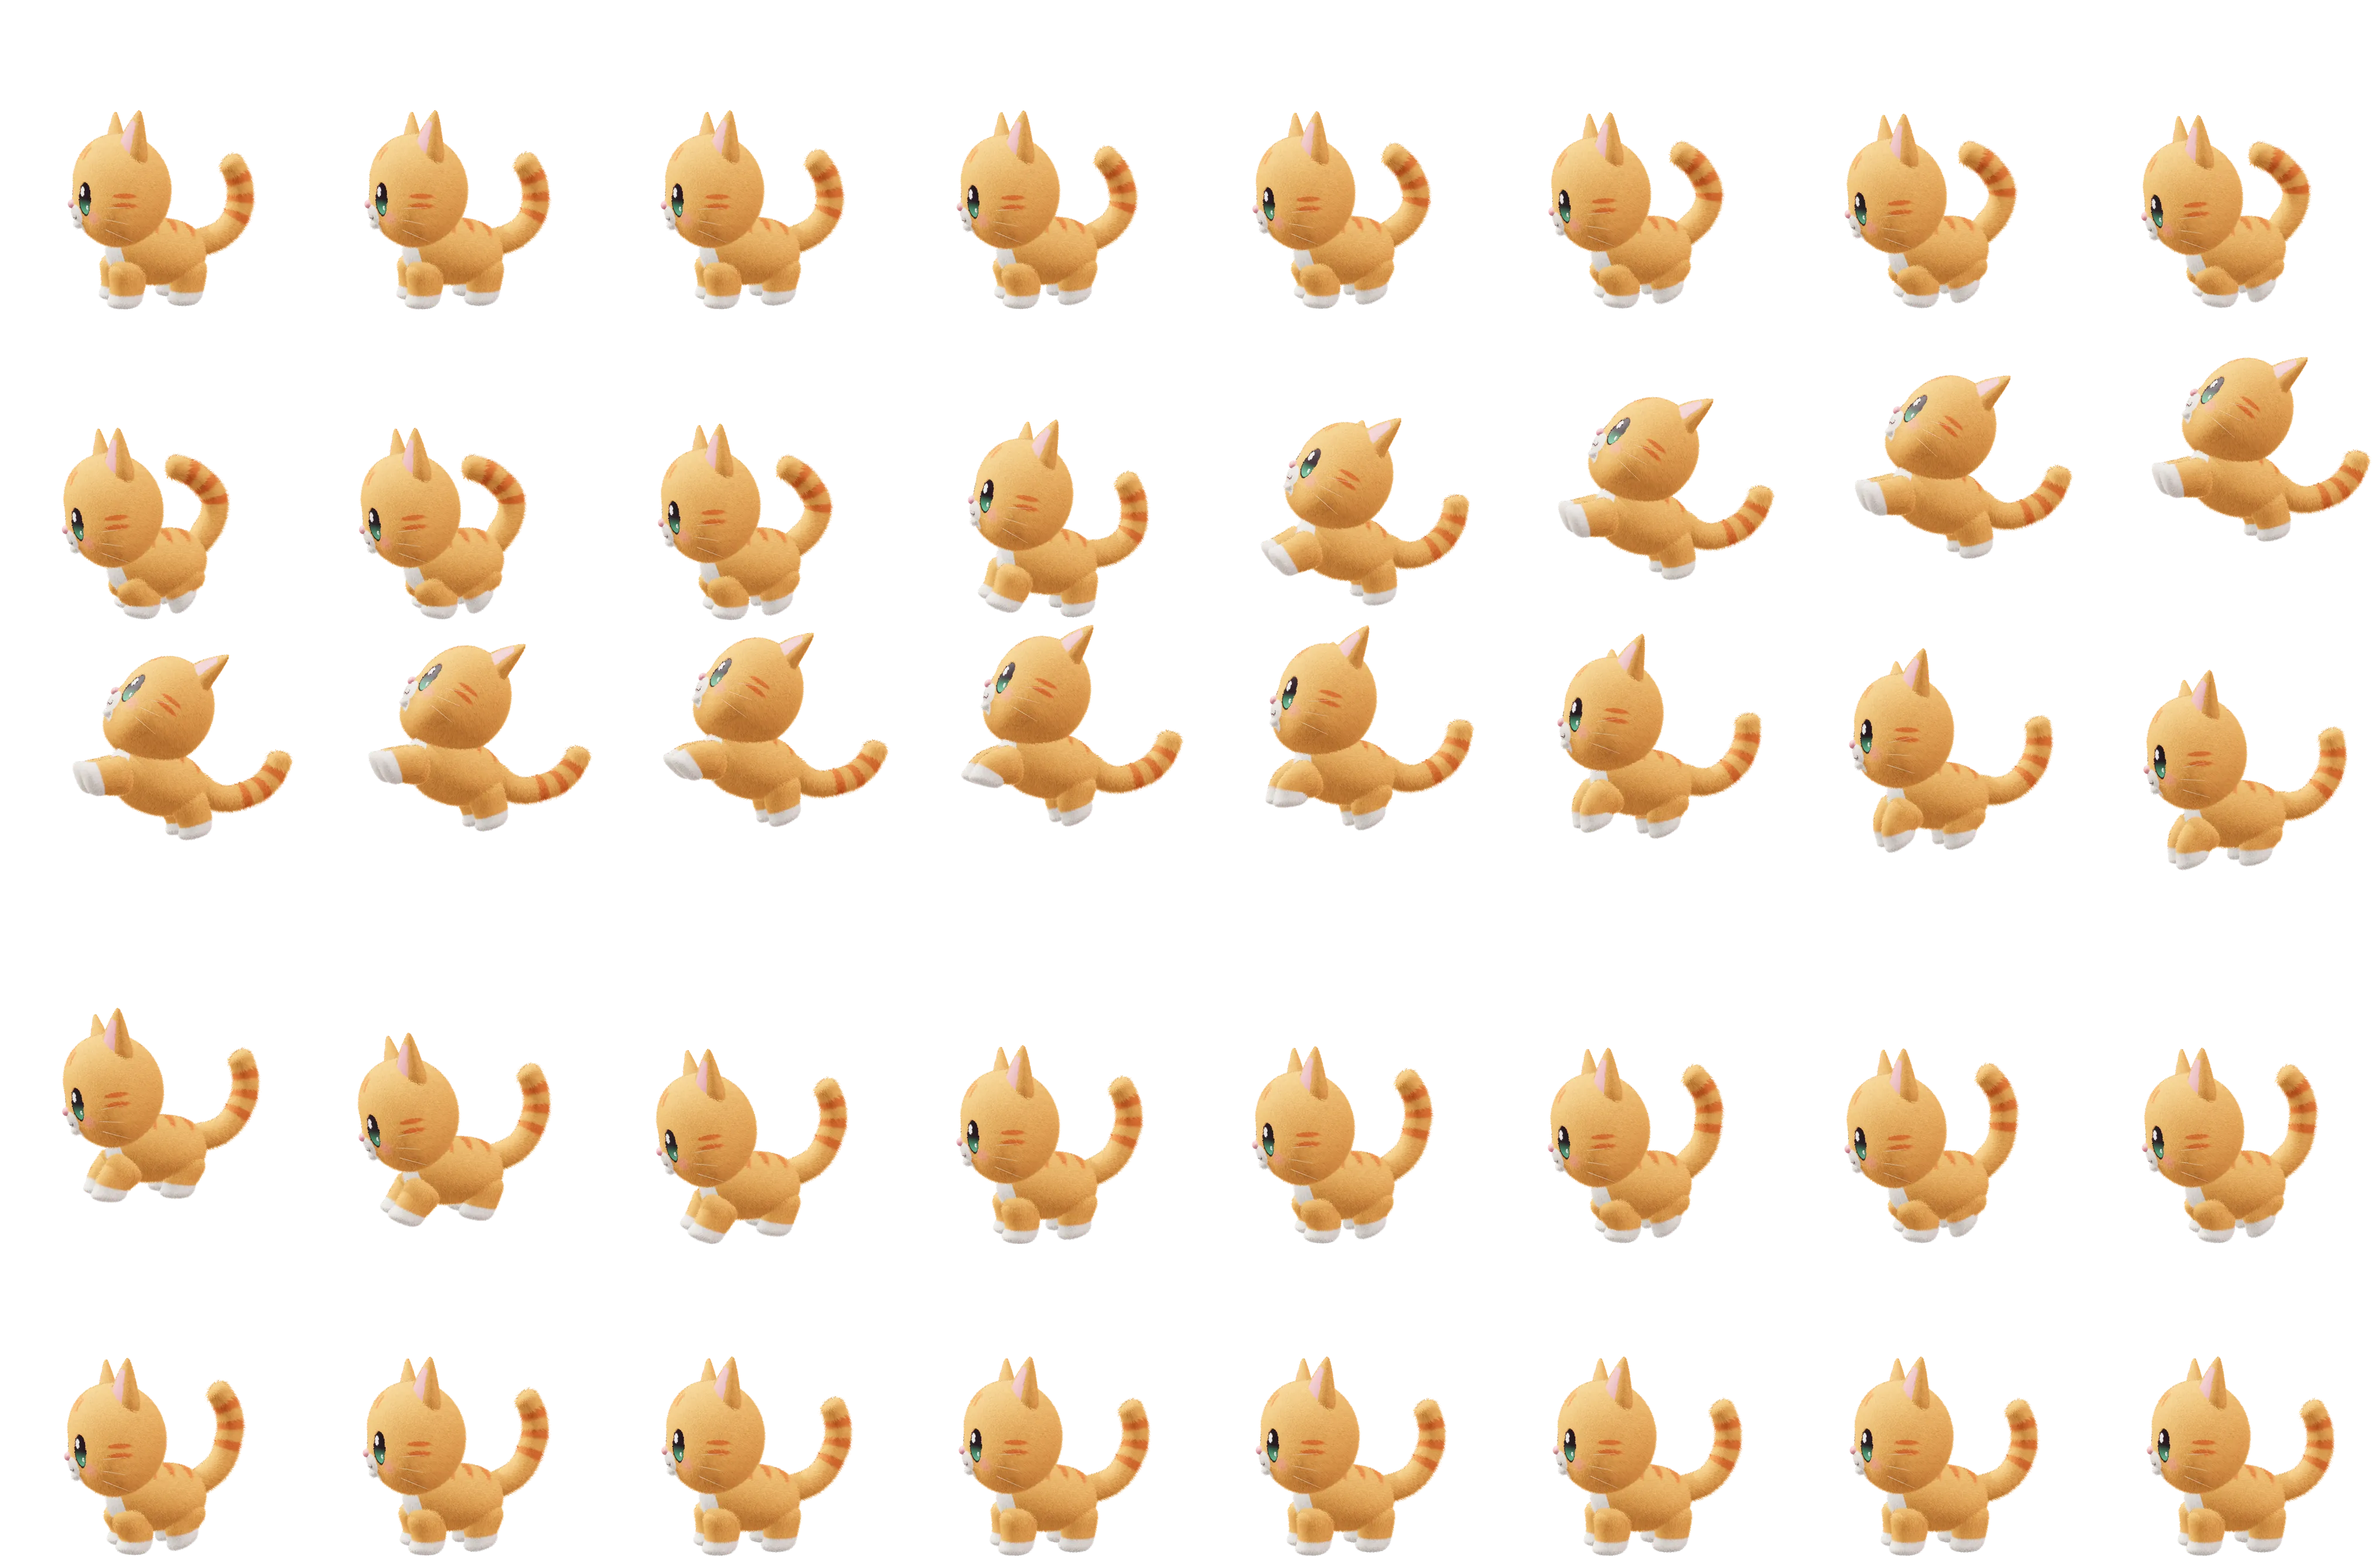
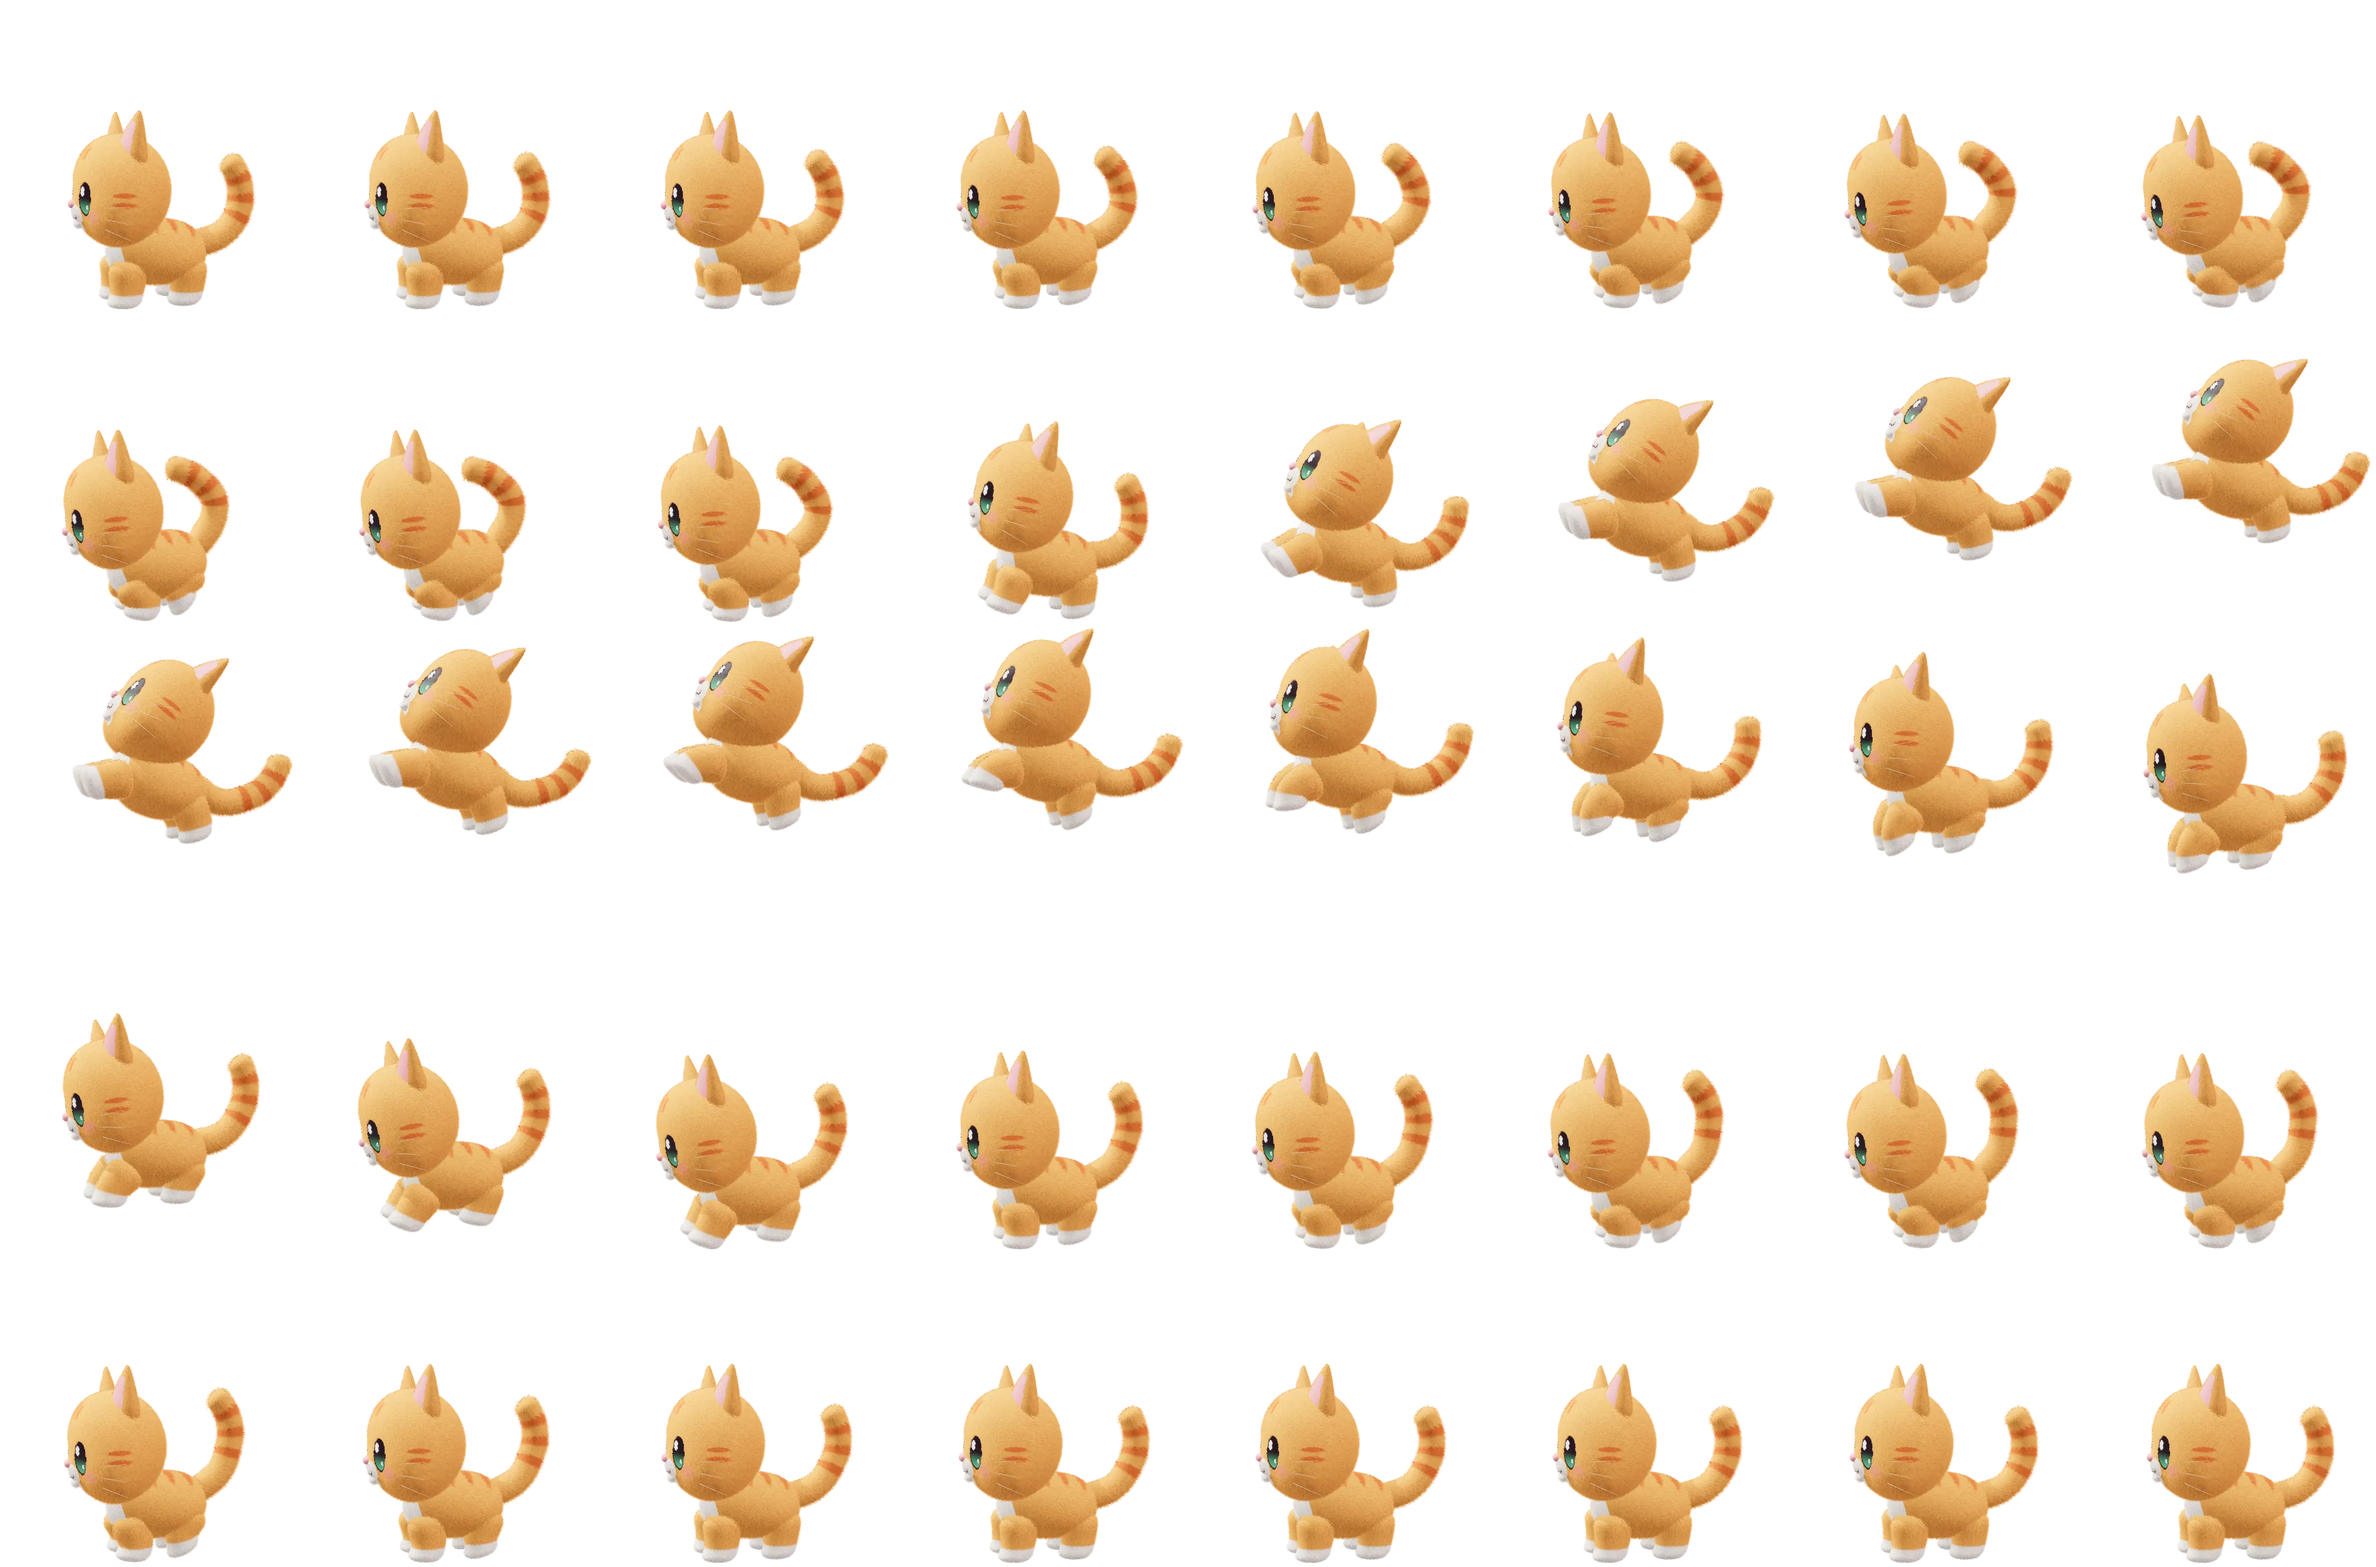
Kitten turns to face you when it stops, sits, meows or sleeps
Front-facing sheets currently reuse side frames until the new renders finish.

Claude-Session: https://claude.ai/code/session_012pkuXRzfxjjGfxKfGxjSNM

diff --git a/couples/src/lib/kittenSim.ts b/couples/src/lib/kittenSim.ts
@@ -16,18 +16,29 @@ export type KittenSnap = {
 
 type ClipTiming = Record<KittenClip, { frames: number; fps: number }>;
 
+
+/** Базовые действия; у сидячих есть вариант «лицом к экрану» (clip + 'F'). */
+type BaseClip = 'idle' | 'walk' | 'run' | 'jump' | 'sit' | 'sleep' | 'call' | 'turn';
+const FRONT: ReadonlySet<BaseClip> = new Set(['idle', 'sit', 'sleep', 'call']);
+/** Какой лист показывать: стоя, сидя, во сне и мяукая котик всегда смотрит на нас. */
+const shown = (c: BaseClip): KittenClip => (FRONT.has(c) ? (`${c}F` as KittenClip) : (c as KittenClip));
+
 type Act = {
-  clip: KittenClip;
+  clip: BaseClip;
   /** Сколько длится зацикленное действие, с */
   dur?: number;
   /** Один проход клипа и дальше по плану */
   once?: boolean;
   /** Цель по x для ходьбы и бега */
   target?: number;
+  /** Для поворота: разворот обратно боком (кадры в обратном порядке) */
+  back?: boolean;
+  /** Что делать после поворота */
+  then?: Act;
 };
 
 /** Скорость лап из анимации, м/с: с этой скоростью котик не «скользит» по полу. */
-const SPEED: Partial<Record<KittenClip, number>> = { walk: 0.159, run: 0.281 };
+const SPEED: Partial<Record<BaseClip, number>> = { walk: 0.159, run: 0.281 };
 /** Прыжок переносит котика вперёд на 0,3 м между кадрами отрыва и приземления. */
 const JUMP = { dist: 0.3, from: 10, to: 28 };
 /** Сколько касаний подряд нужно, чтобы котик подпрыгнул от радости. */
@@ -54,6 +65,8 @@ export class KittenSim {
   private ready = false;
   private mood: KittenMood = 'ok';
   private act: Act = { clip: 'idle', dur: 2 };
+  /** Котик смотрит на нас (front) или идёт боком (side) */
+  private facing: 'front' | 'side' = 'front';
   private t = 0;
   private taps: number[] = [];
 
@@ -78,24 +91,25 @@ export class KittenSim {
     if (mood === this.mood) return;
     const wasSleepy = this.mood === 'sleepy';
     this.mood = mood;
-    if (mood === 'sleepy') this.start({ clip: 'sleep', dur: Infinity });
-    else if (wasSleepy) this.start({ clip: 'idle', dur: 2 });
+    if (mood === 'sleepy') this.go({ clip: 'sleep', dur: Infinity });
+    else if (wasSleepy) this.go({ clip: 'idle', dur: 2 });
   }
 
   /** Касание. Возвращает, что сделал котик. */
   pat(nowMs: number): 'wake' | 'meow' | 'jump' {
     if (this.act.clip === 'sleep') {
       this.taps = [];
-      this.start({ clip: 'idle', dur: 2.5 });
+      this.go({ clip: 'idle', dur: 2.5 });
       return 'wake';
     }
     this.taps = [...this.taps.filter((t) => nowMs - t < 1500), nowMs];
-    if (this.taps.length >= TAPS_FOR_JUMP && this.act.clip !== 'jump' && this.roomFor(JUMP.dist)) {
+    const busy = (c: BaseClip) => this.act.clip === c || this.act.then?.clip === c;
+    if (this.taps.length >= TAPS_FOR_JUMP && !busy('jump') && this.roomFor(JUMP.dist)) {
       this.taps = [];
-      this.start({ clip: 'jump', once: true });
+      this.go({ clip: 'jump', once: true });
       return 'jump';
     }
-    if (this.act.clip !== 'call') this.start({ clip: 'call', once: true });
+    if (!busy('call')) this.go({ clip: 'call', once: true });
     return 'meow';
   }
 
@@ -103,11 +117,16 @@ export class KittenSim {
     const dtc = Math.min(dt, 0.1);
     this.t += dtc;
     const { clip } = this.act;
-    const tm = this.timing[clip];
+    const tm = this.timing[shown(clip)];
     const length = tm.frames / tm.fps;
+    if (clip === 'turn' && this.t >= length) {
+      this.facing = this.act.back ? 'side' : 'front';
+      this.start(this.act.then ?? { clip: 'idle', dur: 2 });
+      return this.snapshot();
+    }
 
     const speed = SPEED[clip];
-    if (speed !== undefined && this.act.target !== undefined) {
+    if (speed !== undefined && this.act.target !== undefined && clip !== 'turn') {
       const to = this.act.target;
       this.dir = to >= this.x ? 1 : -1;
       const stepPx = speed * this.pxPerM * dtc;
@@ -129,18 +148,28 @@ export class KittenSim {
   }
 
   snapshot(): KittenSnap {
-    const { clip } = this.act;
+    const base = this.act.clip;
+    const clip = shown(base);
     const tm = this.timing[clip];
     const raw = Math.floor(this.t * tm.fps);
-    const frame = this.act.once ? Math.min(tm.frames - 1, raw) : raw % tm.frames;
+    let frame = this.act.once || base === 'turn' ? Math.min(tm.frames - 1, raw) : raw % tm.frames;
+    if (base === 'turn' && this.act.back) frame = tm.frames - 1 - frame;
     let air = 0;
-    if (clip === 'jump' && frame >= JUMP.from && frame < JUMP.to) air = Math.sin((Math.PI * (frame - JUMP.from)) / (JUMP.to - JUMP.from));
+    if (base === 'jump' && frame >= JUMP.from && frame < JUMP.to) air = Math.sin((Math.PI * (frame - JUMP.from)) / (JUMP.to - JUMP.from));
     return { clip, frame, x: this.x, dir: this.dir, air };
   }
 
   private start(act: Act) {
     this.act = act;
     this.t = 0;
+  }
+
+  /** Начать действие, при необходимости сначала повернувшись к экрану или боком. */
+  private go(act: Act) {
+    const wantFront = FRONT.has(act.clip);
+    if (wantFront && this.facing === 'side') this.start({ clip: 'turn', back: false, then: act });
+    else if (!wantFront && this.facing === 'front') this.start({ clip: 'turn', back: true, then: act });
+    else this.start(act);
   }
 
   private roomFor(meters: number) {
@@ -166,7 +195,7 @@ export class KittenSim {
 
   private next() {
     if (this.mood === 'sleepy') {
-      this.start({ clip: 'sleep', dur: Infinity });
+      this.go({ clip: 'sleep', dur: Infinity });
       return;
     }
     const w = PLAN[this.mood];
@@ -188,19 +217,19 @@ export class KittenSim {
     if (choice === 'jump' && !this.roomFor(JUMP.dist)) choice = 'walk';
     switch (choice) {
       case 'walk':
-        this.start({ clip: 'walk', target: this.pickTarget(this.mood === 'sad' ? 0.1 : 0.25) });
+        this.go({ clip: 'walk', target: this.pickTarget(this.mood === 'sad' ? 0.1 : 0.25) });
         break;
       case 'run':
-        this.start({ clip: 'run', target: this.pickTarget(0.45) });
+        this.go({ clip: 'run', target: this.pickTarget(0.45) });
         break;
       case 'jump':
-        this.start({ clip: 'jump', once: true });
+        this.go({ clip: 'jump', once: true });
         break;
       case 'sit':
-        this.start({ clip: 'sit', dur: 4 + this.rand() * 5 });
+        this.go({ clip: 'sit', dur: 4 + this.rand() * 5 });
         break;
       default:
-        this.start({ clip: 'idle', dur: 2 + this.rand() * 2 });
+        this.go({ clip: 'idle', dur: 2 + this.rand() * 2 });
     }
   }
 }

diff --git a/couples/src/lib/kittenSprites.ts b/couples/src/lib/kittenSprites.ts
@@ -1,13 +1,13 @@
 // Создано скриптом сборки спрайтов 3D-котика. Не редактировать вручную.
 import type { ImageSourcePropType } from 'react-native';
 
-export type KittenClip = 'idle' | 'walk' | 'run' | 'jump' | 'sit' | 'sleep' | 'call';
+export type KittenClip = 'walk' | 'run' | 'jump' | 'idleF' | 'sitF' | 'sleepF' | 'callF' | 'turn';
 
 export type ClipInfo = { frames: number; fps: number; cols: number; rows: number; src: ImageSourcePropType };
 
 export const KITTEN_SPRITES = {
   cellW: 507,
-  cellH: 532,
+  cellH: 535,
   /** пикселей листа на метр мира (для скорости шагов без «скольжения») */
   pxPerM: 581.528,
   /** где в ячейке центр тела по x и линия пола по y */
@@ -17,13 +17,14 @@ export const KITTEN_SPRITES = {
   catH: 340,
   /** на листе котик смотрит влево */
   clips: {
-    idle: { frames: 20, fps: 10, cols: 8, rows: 3, src: require('../../assets/kitten/idle.webp') },
     walk: { frames: 24, fps: 30, cols: 8, rows: 3, src: require('../../assets/kitten/walk.webp') },
     run: { frames: 16, fps: 30, cols: 8, rows: 2, src: require('../../assets/kitten/run.webp') },
     jump: { frames: 40, fps: 30, cols: 8, rows: 5, src: require('../../assets/kitten/jump.webp') },
-    sit: { frames: 24, fps: 12, cols: 8, rows: 3, src: require('../../assets/kitten/sit.webp') },
-    sleep: { frames: 20, fps: 6.667, cols: 8, rows: 3, src: require('../../assets/kitten/sleep.webp') },
-    call: { frames: 24, fps: 15, cols: 8, rows: 3, src: require('../../assets/kitten/call.webp') },
+    idleF: { frames: 20, fps: 10, cols: 8, rows: 3, src: require('../../assets/kitten/idleF.webp') },
+    sitF: { frames: 24, fps: 12, cols: 8, rows: 3, src: require('../../assets/kitten/sitF.webp') },
+    sleepF: { frames: 20, fps: 6.667, cols: 8, rows: 3, src: require('../../assets/kitten/sleepF.webp') },
+    callF: { frames: 24, fps: 15, cols: 8, rows: 3, src: require('../../assets/kitten/callF.webp') },
+    turn: { frames: 8, fps: 24, cols: 8, rows: 1, src: require('../../assets/kitten/turn.webp') },
   } as Record<KittenClip, ClipInfo>,
 };
 

diff --git a/couples/src/components/Kitten3D.tsx b/couples/src/components/Kitten3D.tsx
@@ -78,7 +78,7 @@ export default function Kitten3D({
     return () => clearInterval(id);
   }, [sim, width]);
 
-  const sleeping = snap.clip === 'sleep';
+  const sleeping = snap.clip === 'sleepF';
   useEffect(() => {
     if (!sleeping) return;
     const loop = Animated.loop(Animated.timing(zzz, { toValue: 1, duration: 2400, easing: Easing.linear, useNativeDriver: useNative }));
